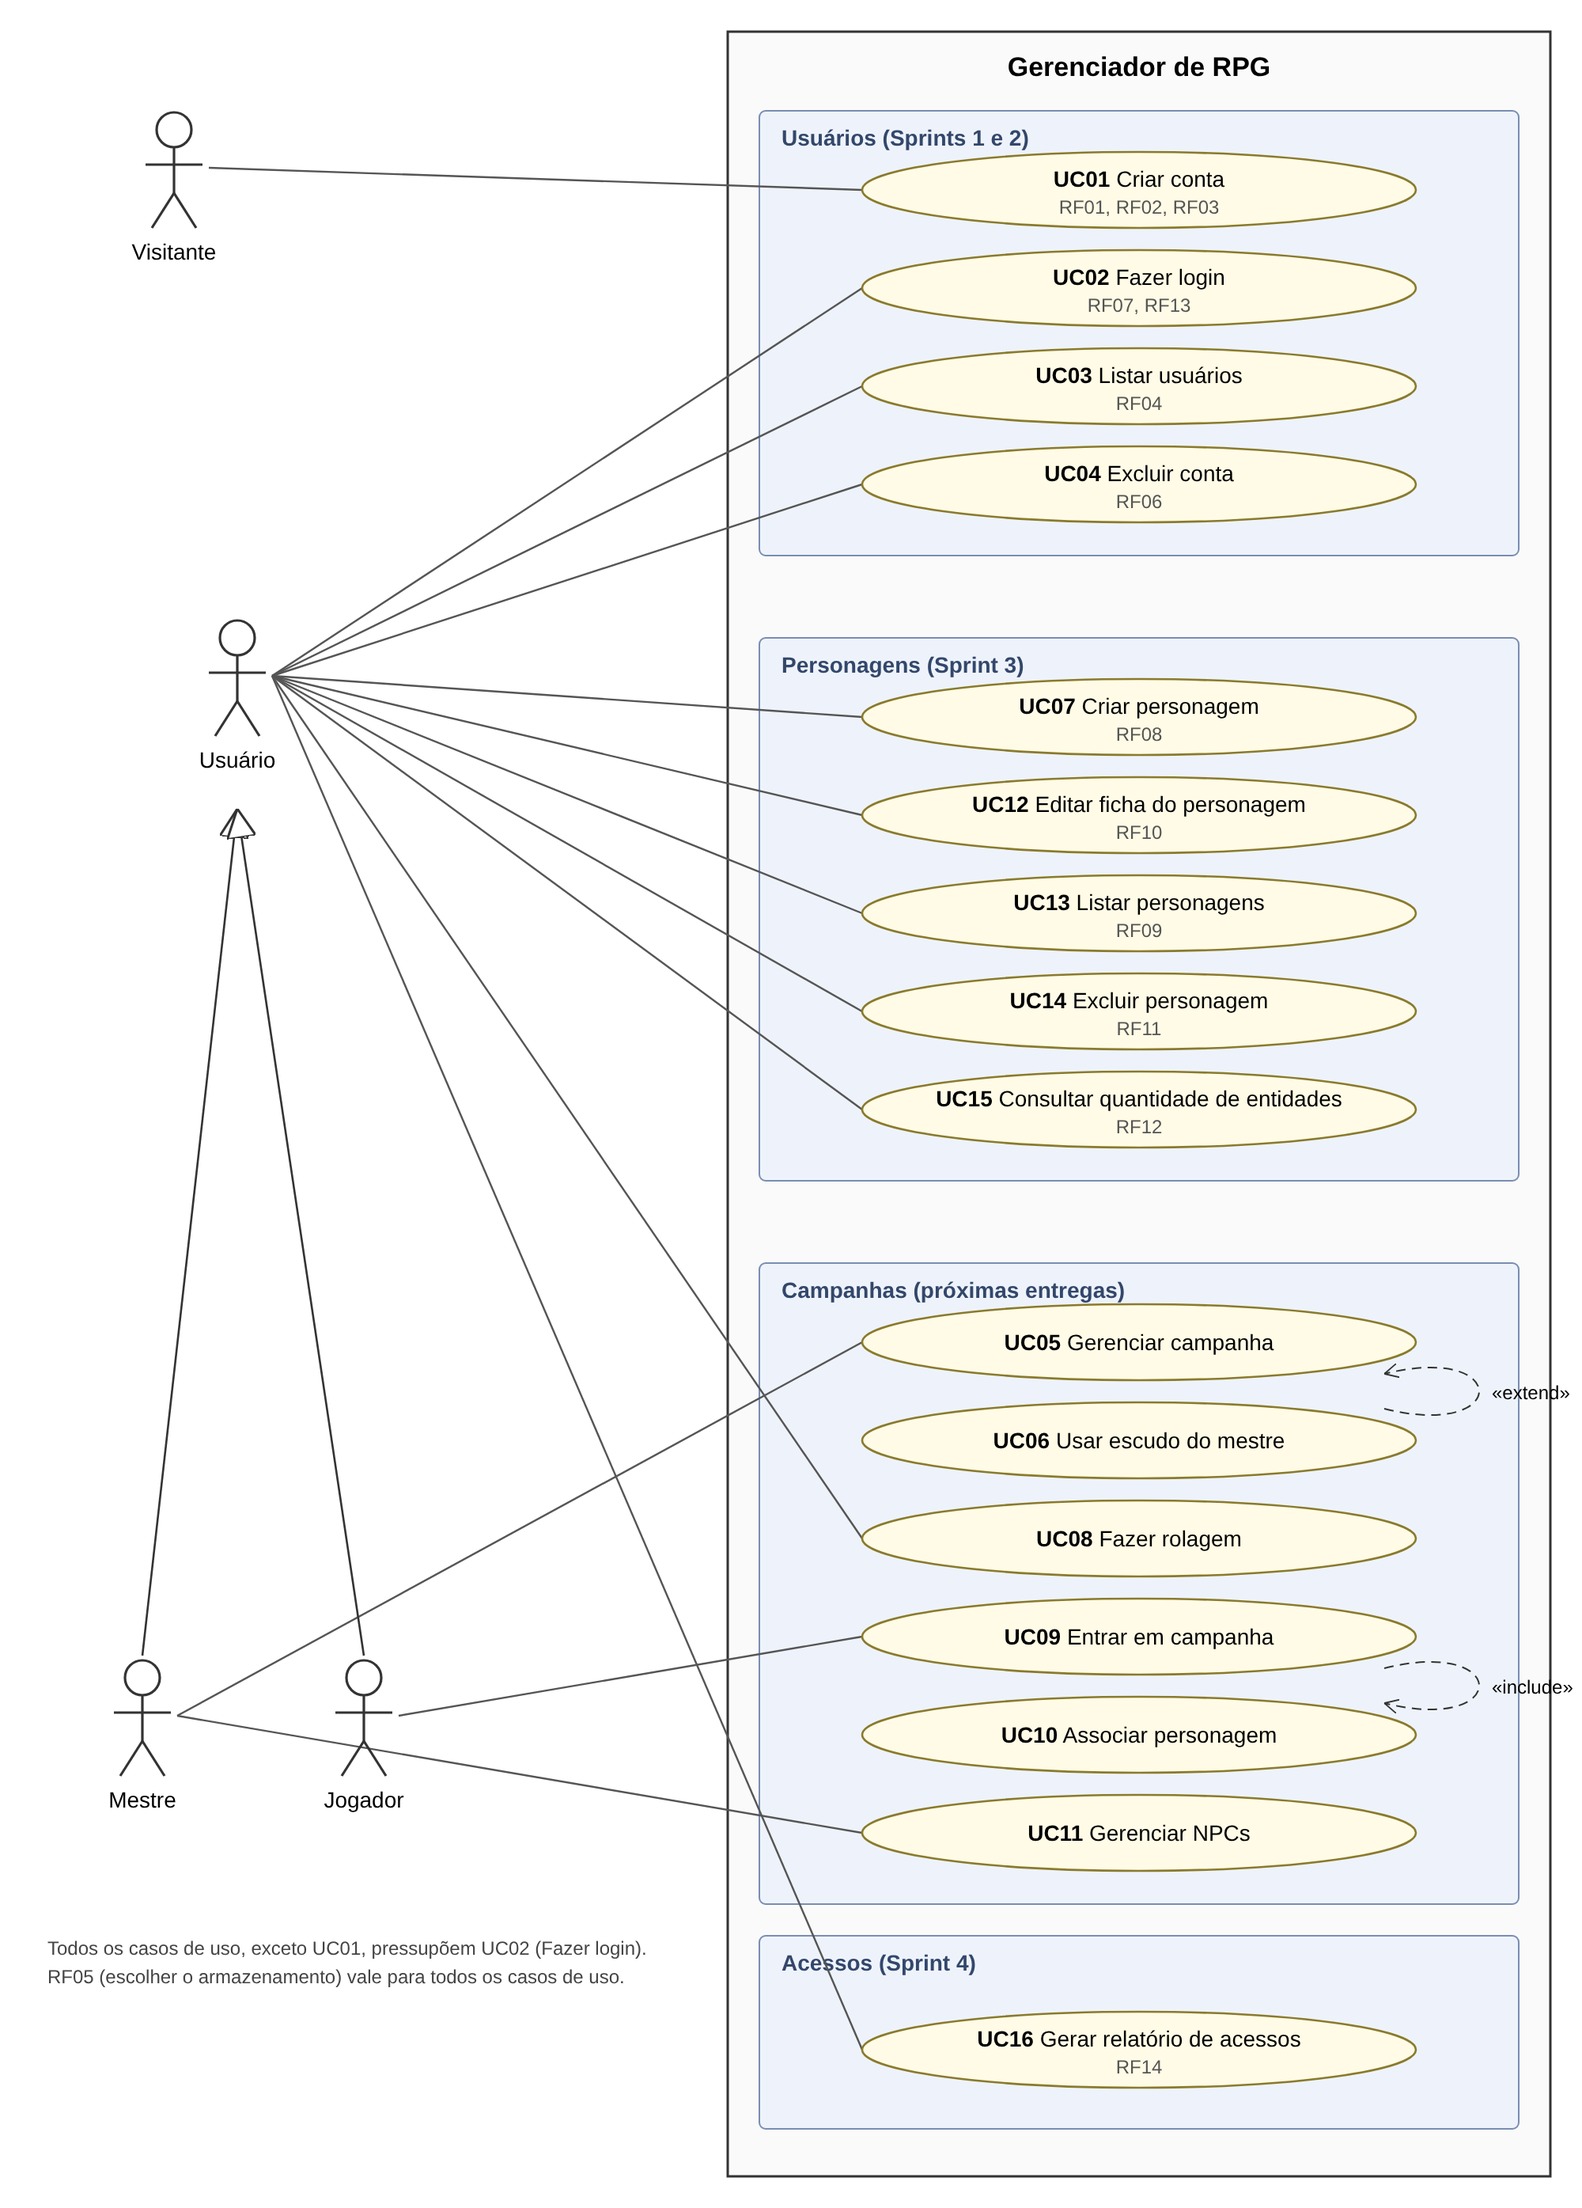
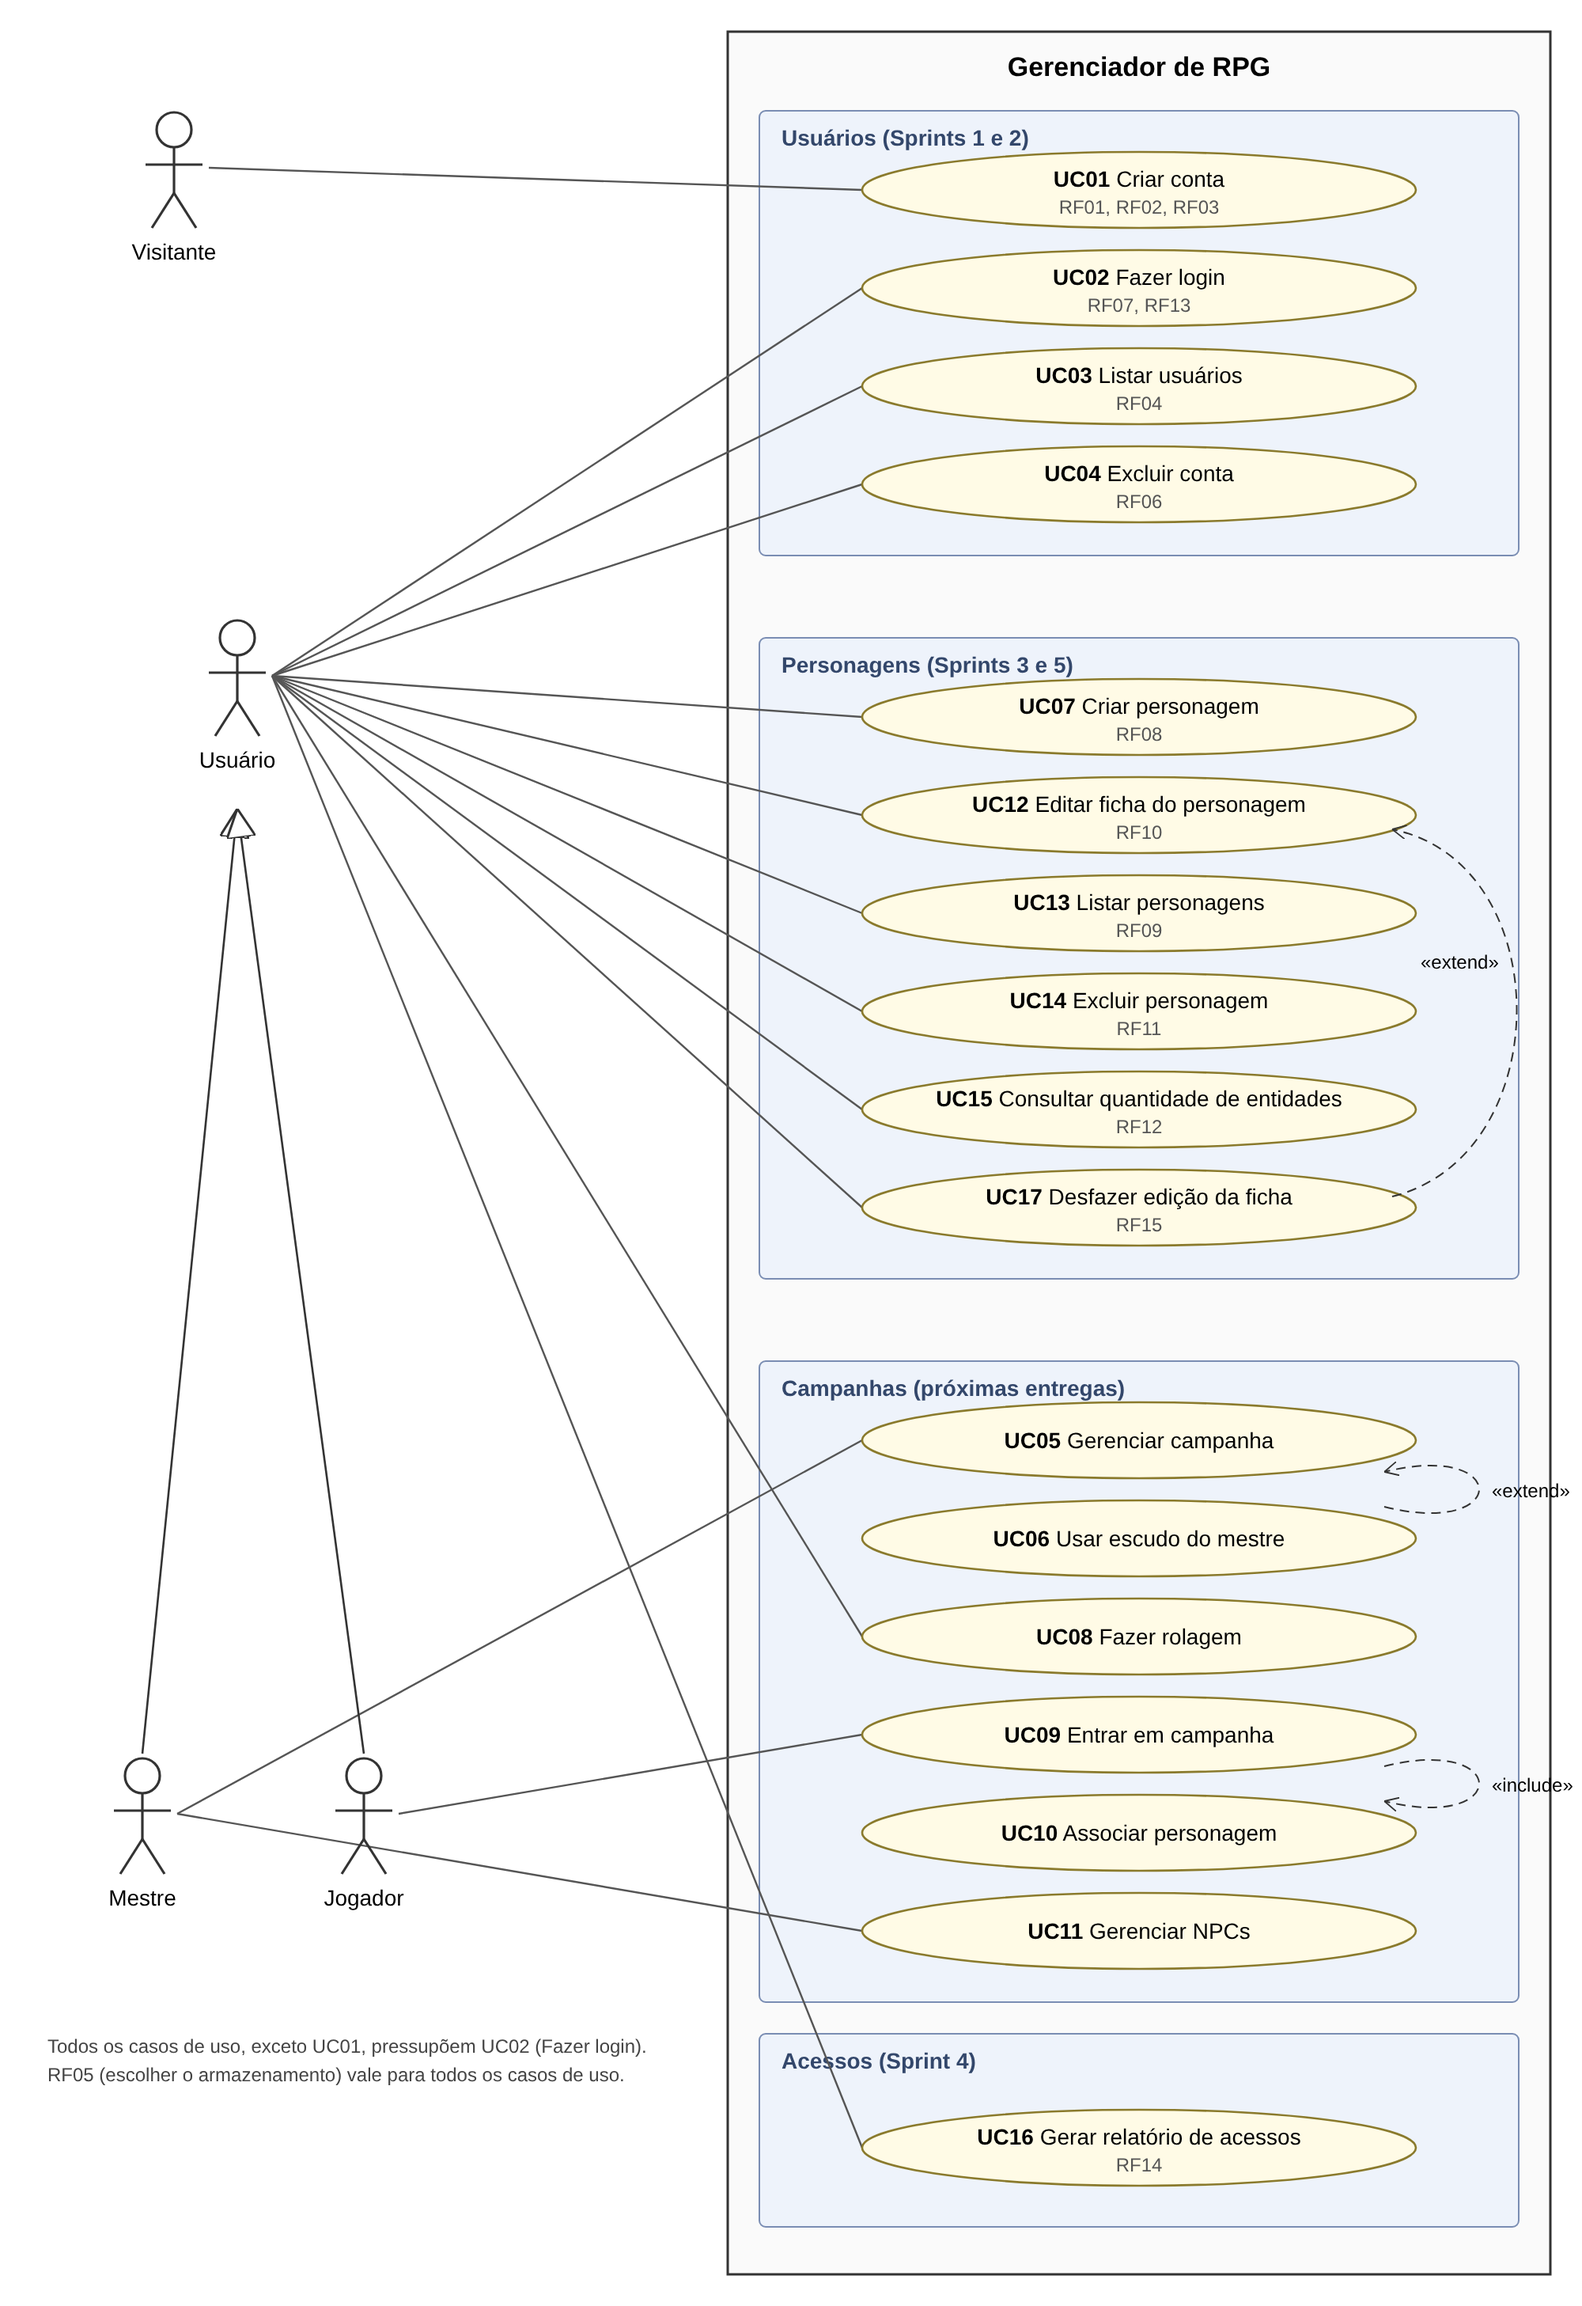
docs(casos-de-uso): adicionar UC17 Desfazer edicao da ficha
UC17 estende o UC12 e descreve o fluxo do RF15 (nenhuma edicao,
personagem excluido, falha de gravacao). Diagrama de casos de uso
completo regenerado com o UC17; TL03 mostra a opcao 5 do menu de
personagens; glossario ganha o termo Desfazer edicao.

Refs: S5.2, RF15, UC17

Claude-Session: https://claude.ai/code/session_01BTWWapcXN8aDdfycEoLe3K

diff --git a/docs/04-casos-de-uso/UC17-desfazer-edicao-ficha.md b/docs/04-casos-de-uso/UC17-desfazer-edicao-ficha.md
@@ -1,0 +1,45 @@
+# [UC17] Desfazer edição da ficha
+
+Este caso de uso é responsável por voltar a ficha de um personagem ao estado anterior à última edição (UC12), por exemplo quando o Usuário digitou um nível ou pontos de vida errados. Estende o UC12: só faz sentido depois de uma edição. Implementado com o padrão Memento ([ADR-0009](../07-arquitetura/adr/0009-memento-desfazer-edicao.md)).
+
+| Campo | Valor |
+|---|---|
+| **Ator** | Usuário (Mestre ou Jogador) |
+| **Prioridade** | Essencial |
+| **Requisitos** | RF15, RF10, RF05, NF-CON-01 |
+| **Interfaces** | TL03 |
+
+**Entradas e pré-condições**
+- O armazenamento já foi escolhido ao iniciar o sistema (TL01).
+- Para haver o que desfazer, uma ficha foi editada com sucesso (UC12) na execução atual.
+- Não há dados de entrada: o sistema sabe qual foi a última edição.
+
+**Saídas e pós-condições**
+- Sucesso: o personagem da última edição volta à ficha anterior, com o mesmo ID e o mesmo dono, gravada no armazenamento escolhido. Não há mais edição para desfazer.
+- Falha: o personagem continua com a ficha editada e o Usuário vê o motivo.
+
+## Fluxo principal
+
+1. Este caso de uso se inicia quando o Usuário escolhe "Personagens" no menu principal e depois "Desfazer ultima edicao de ficha" (TL03).
+2. O sistema busca a última edição guardada [FA1].
+3. O sistema volta o personagem dessa edição à ficha anterior e grava no armazenamento escolhido [FA2] [FE1].
+4. O sistema exibe "Edicao desfeita. Ficha restaurada:" seguido da ficha do personagem, com os modificadores de cada atributo, e volta ao menu de personagens.
+
+## Fluxos secundários
+
+**FA1 — Nenhuma edição para desfazer (passo 2)**
+1. Caso nenhuma ficha tenha sido editada na execução atual, ou a última edição já tenha sido desfeita, o sistema exibe "Nenhuma edicao para desfazer.".
+2. O caso de uso volta ao menu de personagens; nada é alterado.
+
+**FA2 — Personagem excluído depois da edição (passo 3)**
+1. Caso o personagem da última edição tenha sido excluído (UC14 ou UC04), o sistema descarta a edição guardada e exibe "Nenhuma edicao para desfazer.".
+2. Nenhum personagem é criado.
+
+**FE1 — Falha ao gravar o arquivo binário (passo 3)**
+1. Caso a gravação de `personagens.dat` falhe, o sistema mantém a ficha editada em memória e exibe uma mensagem iniciada por "Falha no armazenamento:" (NF-CON-01).
+2. A edição continua guardada: o Usuário pode tentar desfazer de novo.
+
+## Regras
+
+- Só a última edição pode ser desfeita (RF15). Uma nova edição, de qualquer personagem, substitui a anterior.
+- A edição guardada vale só para a execução atual: fechar o sistema a descarta.

diff --git a/docs/04-casos-de-uso/README.md b/docs/04-casos-de-uso/README.md
@@ -15,9 +15,11 @@ Dois tipos de usuário, **Mestre** e **Jogador**, especializam o ator **Usuário
 
 ## 6.2 Diagrama de casos de uso completo
 
-Todos os casos de uso do sistema, com os requisitos funcionais de cada um (RF01 a RF14). Os casos de uso de campanhas ainda não têm requisitos detalhados (ver visão §2.3 e o [cronograma](../00-entregas.md)). Fonte: [`img/casos-de-uso-completo.svg`](img/casos-de-uso-completo.svg). Versão original da Sprint 1: [`../diagramas/CasosDeUso-geral.pdf`](../diagramas/CasosDeUso-geral.pdf).
+Todos os casos de uso do sistema, com os requisitos funcionais de cada um (RF01 a RF15). Os casos de uso de campanhas ainda não têm requisitos detalhados (ver visão §2.3 e o [cronograma](../00-entregas.md)). Fonte: [`img/casos-de-uso-completo.svg`](img/casos-de-uso-completo.svg). Versão original da Sprint 1: [`../diagramas/CasosDeUso-geral.pdf`](../diagramas/CasosDeUso-geral.pdf).
 
 ![Diagrama de casos de uso completo](img/casos-de-uso-completo.png)
+
+> Na Sprint 5 entrou o UC17 Desfazer edição da ficha (RF15), que estende o UC12 Editar ficha: volta o personagem à ficha anterior à última edição (padrão Memento). Descrição em [UC17](UC17-desfazer-edicao-ficha.md).
 
 > Na Sprint 4 entrou o UC16 Gerar relatório de acessos (RF14). O UC02 Fazer login passou a registrar cada tentativa (RF13), que alimenta o relatório. Descrição em [UC16](UC16-gerar-relatorio-acessos.md).
 
@@ -43,5 +45,6 @@ Todos os casos de uso do sistema, com os requisitos funcionais de cada um (RF01 
 | UC14 Excluir personagem | Usuário | RF11, NF-CON-01 | — |
 | UC15 Consultar quantidade de entidades | Usuário | RF12 | — |
 | UC16 Gerar relatório de acessos | Usuário | RF14, RF13, RF05 | [UC16](UC16-gerar-relatorio-acessos.md) |
+| UC17 Desfazer edição da ficha (estende UC12) | Usuário | RF15, RF10, RF05, NF-CON-01 | [UC17](UC17-desfazer-edicao-ficha.md) |
 
 **Regra:** depois da primeira entrega, IDs de casos de uso **não** são renumerados nem reaproveitados.

diff --git a/docs/02-glossario.md b/docs/02-glossario.md
@@ -12,6 +12,7 @@
 | **Campanha** | Conjunto de sessões de jogo conduzidas por um Mestre, com uma história contínua e um número máximo de Jogadores. | mesa, aventura, partida | "A Mina Perdida de Phandelver", até 5 jogadores |
 | **Classe de armadura (CA)** | Valor que uma rolagem de ataque precisa igualar ou superar para acertar o personagem. | defesa, armadura | CA 15 |
 | **Classe de dificuldade (CD)** | Valor que um teste precisa igualar ou superar para ter sucesso; definido pelo Mestre. | dificuldade, alvo | CD 12 para escalar o muro |
+| **Desfazer edição** | Voltar a ficha de um personagem ao estado anterior à última edição feita na execução atual (RF15). Só a última edição pode ser desfeita. | undo, voltar | Nível 4 → desfazer → nível 3 |
 | **Dado** | Dado de jogo identificado pela letra D e pelo número de faces. Tipos aceitos: D4, D6, D8, D10, D12, D20 e D100. | — | D20 |
 | **Escudo do Mestre** | Área do sistema visível apenas ao Mestre, com anotações, NPCs e rolagens ocultas da campanha. | painel do mestre | — |
 | **Ficha** | Conjunto de dados de um personagem: nome, nível, atributos, pontos de vida e demais valores de jogo. | planilha, sheet | — |

diff --git a/docs/06-interface/README.md b/docs/06-interface/README.md
@@ -45,7 +45,7 @@ Usuario e seus personagens excluidos com sucesso.
 
 ## TL03 — Menu de personagens e listagem
 
-Relacionada a: UC07, UC12, UC13, UC14 · RF08–RF11
+Relacionada a: UC07, UC12, UC13, UC14, UC17 · RF08–RF11, RF15
 
 ```text
 Personagens
@@ -53,6 +53,7 @@ Personagens
 2. Listar personagens
 3. Editar ficha
 4. Excluir personagem
+5. Desfazer ultima edicao de ficha
 0. Voltar
 Opcao: 2
 ID: 1 | Dono: isac | Nome: Thorin | Nivel: 3 | PV: 27
@@ -61,6 +62,14 @@ ID: 1 | Dono: isac | Nome: Thorin | Nivel: 3 | PV: 27
 Opcao: 4
 ID do personagem: 9
 Personagem nao encontrado.
+
+Opcao: 5
+Edicao desfeita. Ficha restaurada:
+ID: 1 | Dono: ID 1 | Nome: Thorin | Nivel: 3 | PV: 27
+    FOR 16 (+3) DES 12 (+1) CON 14 (+2) INT 8 (-1) SAB 10 (+0) CAR 9 (-1)
+
+Opcao: 5
+Nenhuma edicao para desfazer.
 ```
 
 ## TL04 — Criar personagem

diff --git a/docs/04-casos-de-uso/UC12-editar-ficha.md b/docs/04-casos-de-uso/UC12-editar-ficha.md
@@ -15,7 +15,7 @@ Este caso de uso é responsável por atualizar a ficha de um personagem já cria
 - Dados de entrada: ID do personagem e a nova ficha (nome, nível, pontos de vida e os seis atributos).
 
 **Saídas e pós-condições**
-- Sucesso: o personagem guarda a nova ficha, com o mesmo ID e o mesmo dono.
+- Sucesso: o personagem guarda a nova ficha, com o mesmo ID e o mesmo dono. A ficha anterior fica guardada para o UC17 Desfazer edição da ficha (só a da última edição).
 - Falha: a ficha anterior continua guardada e o Usuário vê o motivo da recusa.
 
 ## Fluxo principal
